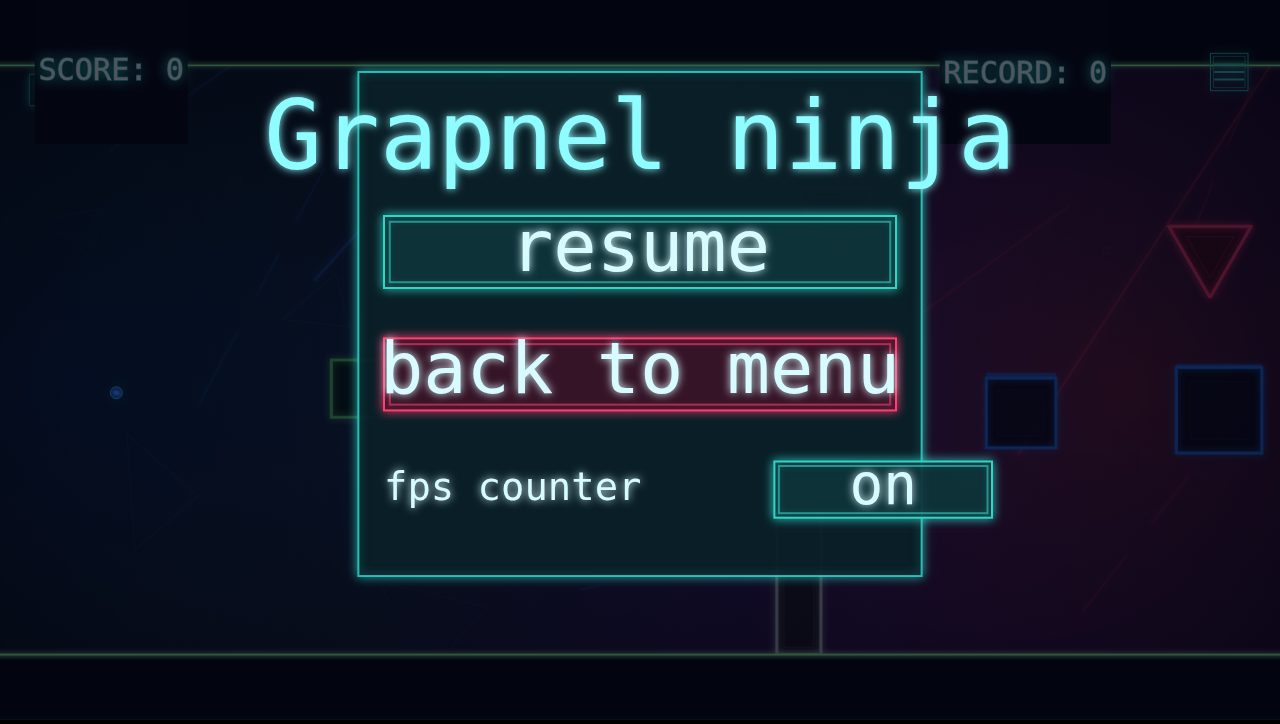
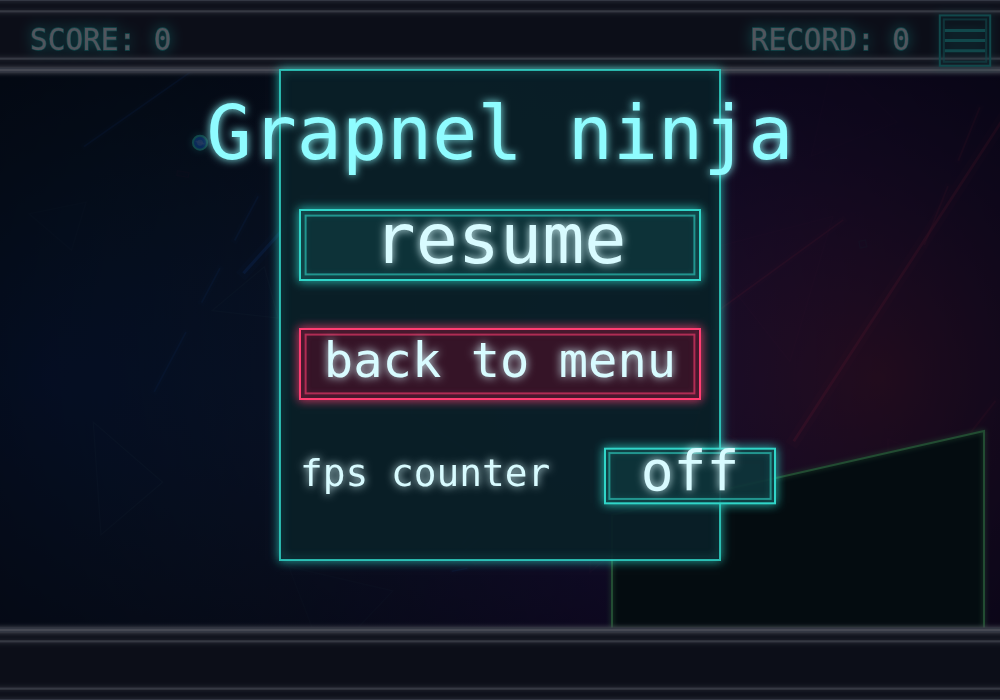
TASK-015: fit pause button labels

diff --git a/menu.js b/menu.js
@@ -56,6 +56,10 @@ class Text
         ctx.restore()
     }
 }
+function getArcadeFont(size)
+{
+    return size + 'px ' + STYLE.ui.fontFamily
+}
 class Button
 {
     constructor(background, text, clickFunc, image)
@@ -70,7 +74,7 @@ class Button
         
         text.x          = background.x
         text.y          = background.y
-        text.fontSize   = this.background.height
+        text.fontSize   = this.getFittedTextSize(text.text, this.background.height)
         
         if (typeof background.clickable == "undefined")
             this.clickable = true
@@ -82,6 +86,24 @@ class Button
         this.image = image
         
         this.click = clickFunc
+    }
+    getFittedTextSize(label, maxSize)
+    {
+        if (!label)
+            return maxSize
+
+        const horizontalPadding = this.background.height * STYLE.ui.buttonTextPaddingRatio * 2
+        const maxWidth = Math.max(1, this.background.width - horizontalPadding)
+
+        ctx.save()
+        ctx.font = getArcadeFont(maxSize)
+        const measuredWidth = ctx.measureText(label).width
+        ctx.restore()
+
+        if (measuredWidth <= maxWidth)
+            return maxSize
+
+        return Math.max(STYLE.ui.buttonMinFontSize, maxSize * maxWidth / measuredWidth)
     }
     draw()
     {

diff --git a/style.js b/style.js
@@ -120,6 +120,8 @@ const STYLE = Object.freeze({
         buttonShadowBlur: 10,
         buttonInsetRatio: 0.08,
         buttonLineWidth: 2,
+        buttonTextPaddingRatio: 0.34,
+        buttonMinFontSize: 12,
         pausePanelLineWidth: 2,
         hudTopRatio: 0.06,
         hudFontRatio: 0.042,

diff --git a/progress.md b/progress.md
@@ -147,3 +147,4 @@ TASK-084: Removed the shared depth-background streak layer that created bottom p
 TASK-085: Increased shared gameplay background flashes from 6 to 10 varied visual-only accents for both classic and bad versions, verified browser startup/readability/no console errors, inspected screenshots/TASK-085.png, and kept flashes behind gameplay. Gotcha: classic and bad gameplay both use STYLE.backgroundGeometry.badVersion for the shared depth background.
 TASK-086: Added four subtle shared depth-background decorative triangle silhouettes, verified classic and bad gameplay both draw 10 background triangles, no console errors, valid JSON, and saved/inspected screenshots/TASK-086.png. Gotcha: classic and bad gameplay share STYLE.backgroundGeometry.badVersion for depth background triangles.
 TASK-015: Repositioned and downsized the pause-menu FPS counter row so it no longer overlaps back-to-menu or its toggle; browser checks passed, screenshot inspection found no clipped/overlapped controls, and screenshots/TASK-015.png was refreshed. Gotcha: local static server still emits an unrelated favicon/resource 404, filtered from JS console checks.
+TASK-015: Added fitted button-label sizing so pause labels stay inside visible controls; browser checks confirmed main menu/classic/bad starts, pause resume/FPS/back behavior, aligned button hit areas, no JS console errors, valid JSON, and refreshed screenshots/TASK-015.png. Gotcha: local static server still emits an unrelated resource 404.
